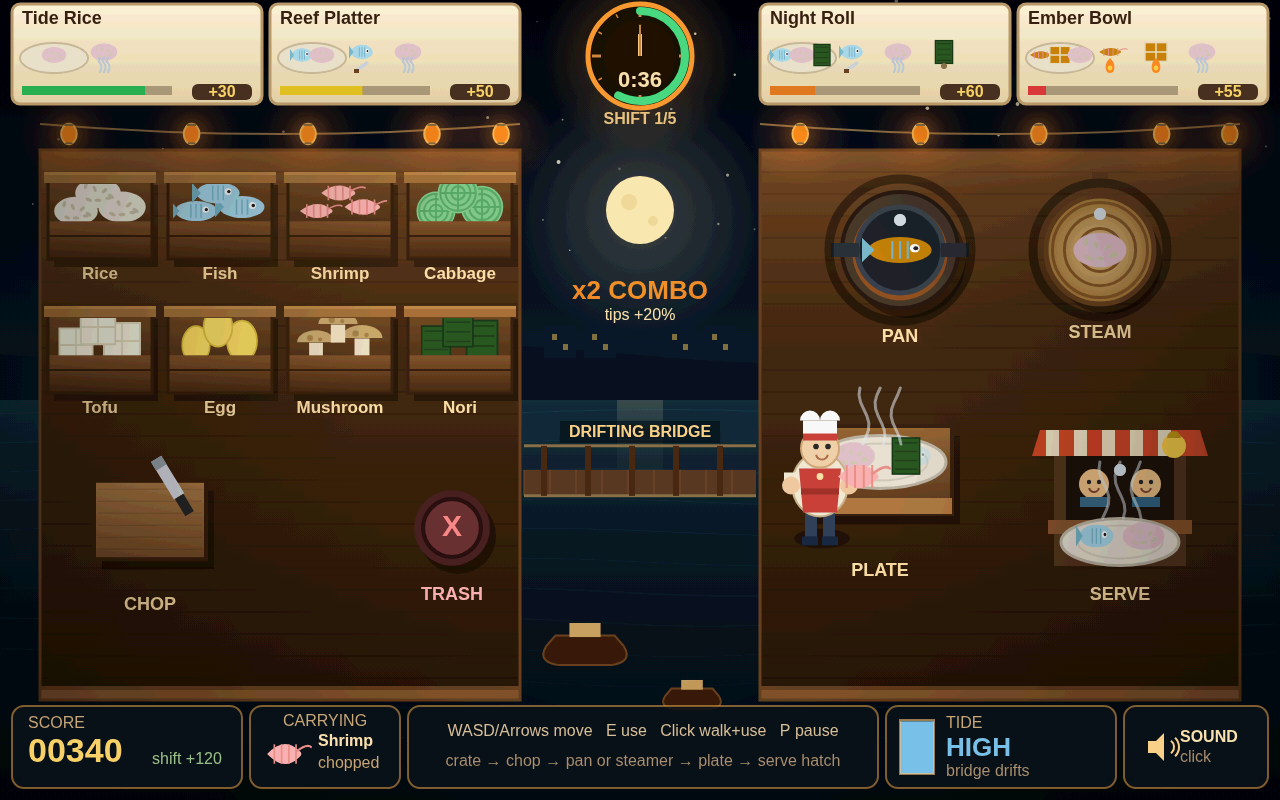
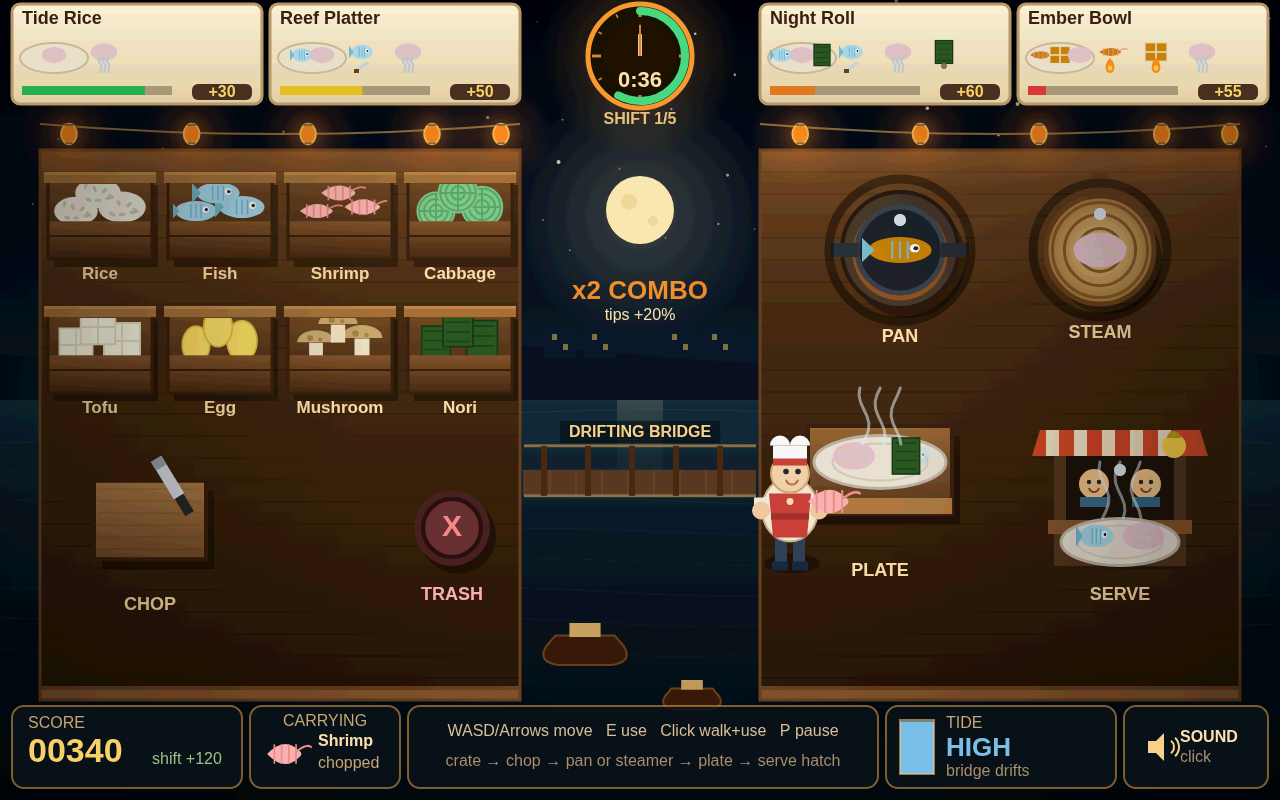
Finalize: partial-plate test, layout tweak, refreshed shots, notes

Changed region(s): [[0.5625, 0.5, 0.6875, 0.7188]]

diff --git a/game/src/shots.js b/game/src/shots.js
@@ -45,7 +45,7 @@ export function setupShot(g, n) {
       ticket(RECIPES[6], 0.12, 40, 3),
     ];
     g.tide.setTime(18); // high tide: the drifting bridge is the visual centre
-    setPlayer(g, 820, 530, 1);
+    setPlayer(g, 790, 555, 1);
     g.player.carrying = { ing: 'shrimp', state: 'chopped', stepIdx: 0, recipeId: null };
     const plate = g.stations.find((s) => s.id === 'plate_counter');
     plate.contents = [{ ing: 'rice', state: 'steamed' }, { ing: 'nori', state: 'raw' }];
@@ -144,7 +144,7 @@ export function setupShot(g, n) {
       { id: 'r3', recipe: RECIPES[6], served: true, failed: false, patience: 0, maxPatience: 1 },
       { id: 'r4', recipe: RECIPES[7], served: false, failed: true, patience: 0, maxPatience: 1 },
     ];
-    setPlayer(g, 820, 530, 1);
+    setPlayer(g, 790, 555, 1);
     g.player.carrying = null;
     const hatch = g.stations.find((s) => s.id === 'serve_window');
     hatch.contents = [{ ing: 'rice', state: 'steamed' }, { ing: 'fish', state: 'chopped' }];

diff --git a/game/src/stations.js b/game/src/stations.js
@@ -53,7 +53,7 @@ export function stationUnder(mx, my, stations) {
 
 export function nearestStation(player, stations) {
   let best = null;
-  let bestD = 100;
+  let bestD = 130;
   for (const s of stations) {
     const d = Math.hypot(player.x - s.x, player.y - s.y);
     if (d < bestD) { best = s; bestD = d; }
@@ -130,7 +130,7 @@ export function interactWithStation(station, player) {
 
 export function updateStations(stations, dt) {
   for (const s of stations) {
-    if (s.type !== ST.CHOP && s.type !== ST.STOVE && s.type !== ST.STEAMER) continue;
+    if (s.type !== ST.STOVE && s.type !== ST.STEAMER) continue;
     if (!s.contents) continue;
     if (s.progress < 1) {
       s.progress = Math.min(1, s.progress + dt / COOK_TIME);

diff --git a/game/src/selftest.js b/game/src/selftest.js
@@ -82,7 +82,7 @@ export function runSelfTest(g) {
   log('picked from steamer = ' + (g.player.carrying ? g.player.carrying.state : 'nothing'));
   if (!g.player.carrying) return finish(false);
 
-  if (!routeTo({ x: 820, y: 530 })) return finish(false);
+  if (!routeTo({ x: 790, y: 555 })) return finish(false);
   tap('KeyE', 'e');
   if (!routeTo({ x: 1050, y: 545 })) return finish(false);
   tap('KeyE', 'e');

diff --git a/game/src/layout.js b/game/src/layout.js
@@ -74,7 +74,7 @@ export const STAND = {
   trash:         { x: 390,  y: 600 },
   stove_pan:     { x: 830,  y: 300 },
   steamer_pot:   { x: 1020, y: 300 },
-  plate_counter: { x: 820,  y: 530 },
+  plate_counter: { x: 790,  y: 555 },
   serve_window:  { x: 1050, y: 545 },
 };
 

diff --git a/NOTES.md b/NOTES.md
@@ -60,10 +60,12 @@ shorten the shift and patience, and raise the number of orders needed.
   - **real headless Chromium** (`?test=1`) cooks a Tide Rice from crate → steamer → plate →
     hatch using only synthetic keyboard events, with **no console error**.
 - Screenshots captured from the real game at 1280×800 with `chromium --headless=new`:
-  `1-kitchen.png` (196,910 B), `2-rush.png` (196,733 B), `3-plating.png` (198,102 B),
+  `1-kitchen.png` (198,230 B), `2-rush.png` (196,733 B), `3-plating.png` (198,102 B),
   `4-result.png` (138,877 B). All are PNG, 1280×800, under 256 KiB.
 - Pixel statistics (code, not visual): mean luminance 60 / 60 / 47 / 34, so no shot is blank
   or black; the result card is warm and the kitchen stays visible behind it.
+- Partial plates are rejected: serving with only half the required steps returns `null` and
+  leaves `servedThisShift` at 0 (asserted for every recipe in `test.mjs`).
 
 ## Still weak / honest caveats
 
